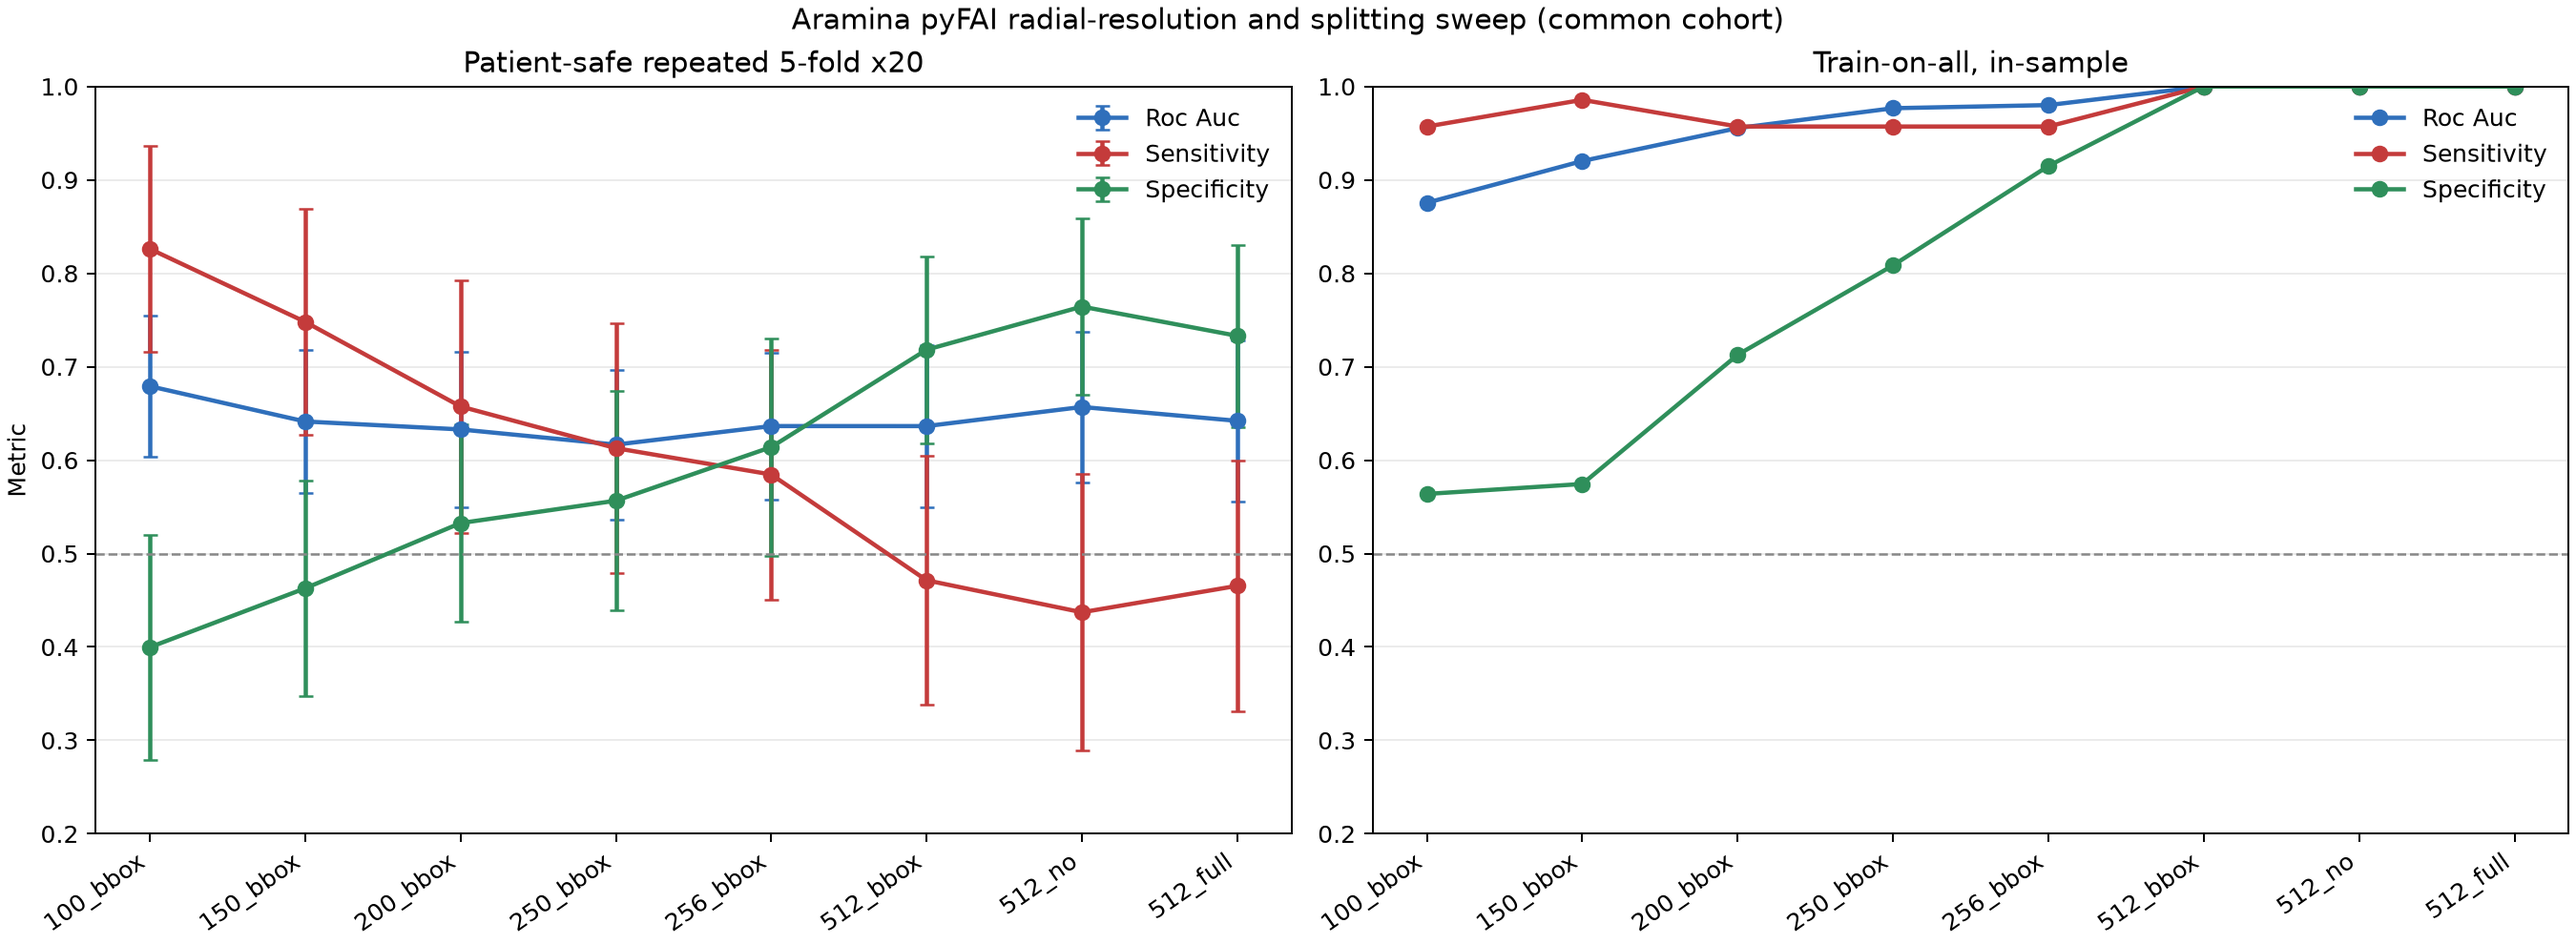
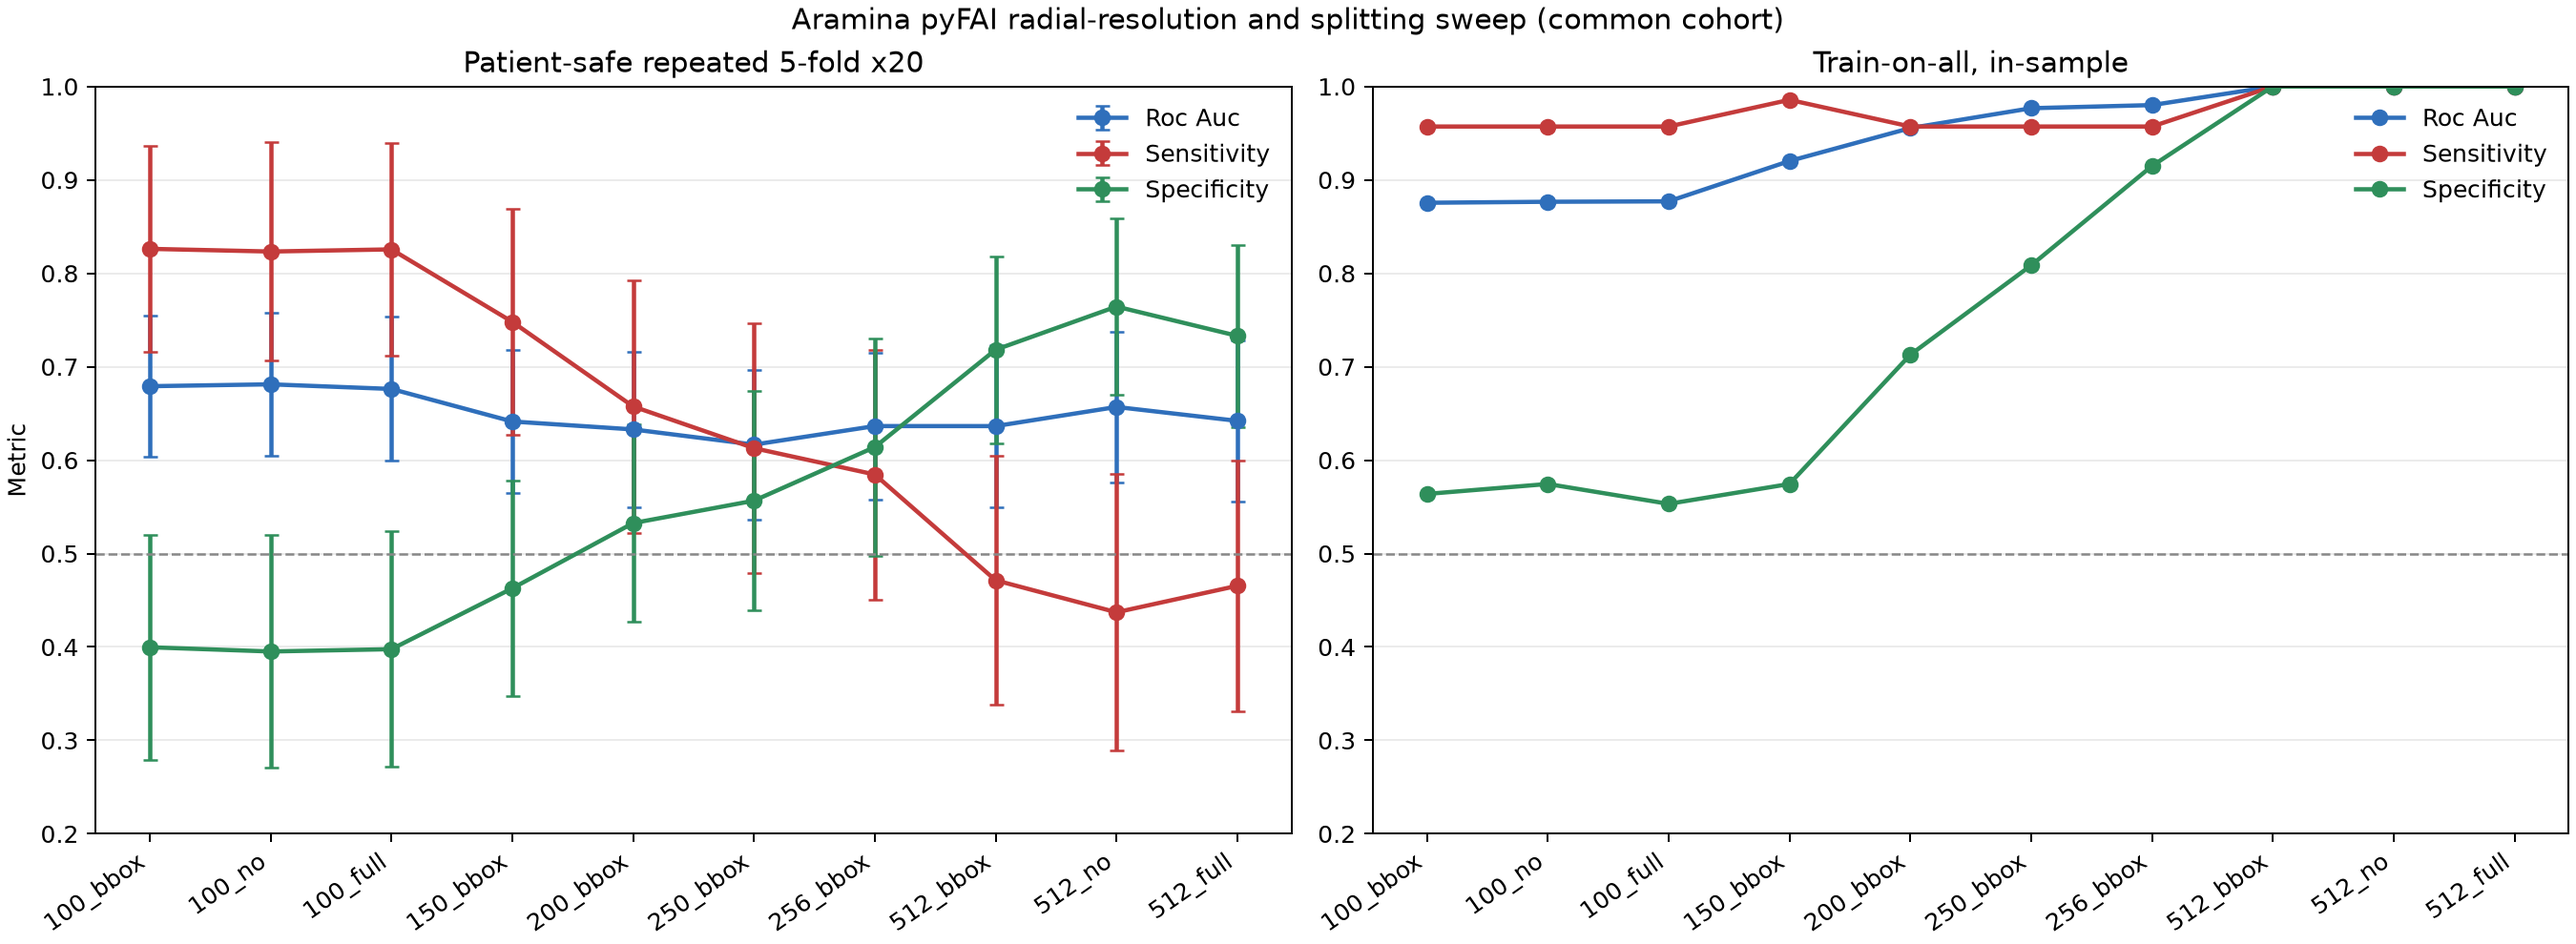
experiment: compare pyFAI splitting at npt100

diff --git a/experiments/npt_method_sweep/run_npt_method_sweep.py b/experiments/npt_method_sweep/run_npt_method_sweep.py
@@ -49,6 +49,8 @@ DEFAULT_H5 = (
 IDENTITY_COLUMNS = ["patientId", "specimenId", "side", "position", "started_at"]
 VARIANTS = (
     ("npt100_bbox", 100, ("bbox", "csr", "cython")),
+    ("npt100_no", 100, ("no", "csr", "cython")),
+    ("npt100_full", 100, ("full", "csr", "cython")),
     ("npt150_bbox", 150, ("bbox", "csr", "cython")),
     ("npt200_bbox", 200, ("bbox", "csr", "cython")),
     ("npt250_bbox", 250, ("bbox", "csr", "cython")),

diff --git a/experiments/npt_method_sweep/RESULTS.md b/experiments/npt_method_sweep/RESULTS.md
@@ -9,6 +9,13 @@ increased in-sample separation and reached perfect train-on-all classification
 at `npt=512`, while held-out ROC AUC remained approximately `0.64–0.66`. This is
 overfitting, not improved generalization.
 
+At the fixed product resolution (`npt=100`), changing only the pyFAI pixel
+splitting rule did not change held-out performance materially. `no`, `bbox`,
+and `full` gave ROC AUC `0.681`, `0.679`, and `0.676`, respectively, on the
+same held-out cases. `bbox` remains the frozen product method: it retains the
+existing validated preprocessing definition without a measurable performance
+disadvantage.
+
 ## Controlled common cohort
 
 All variants used the same `803` measurements, `164` patients, `164`
@@ -17,6 +24,8 @@ target-breast cases, split IDs, and random seed.
 | Variant | q step, nm^-1 | ROC AUC | Sensitivity | Specificity | Train-all ROC | Train-all specificity |
 |---|---:|---:|---:|---:|---:|---:|
 | `100/bbox` | 0.210 | **0.679 ± 0.076** | **0.826 ± 0.111** | 0.400 ± 0.120 | 0.876 | 0.564 |
+| `100/no` | 0.210 | **0.681 ± 0.076** | 0.823 ± 0.117 | 0.395 ± 0.125 | 0.877 | 0.574 |
+| `100/full` | 0.210 | 0.676 ± 0.077 | 0.826 ± 0.114 | 0.398 ± 0.126 | 0.877 | 0.553 |
 | `150/bbox` | 0.140 | 0.641 ± 0.077 | 0.748 ± 0.121 | 0.463 ± 0.115 | 0.920 | 0.574 |
 | `200/bbox` | 0.105 | 0.633 ± 0.083 | 0.657 ± 0.136 | 0.533 ± 0.106 | 0.955 | 0.713 |
 | `250/bbox` | 0.084 | 0.617 ± 0.080 | 0.613 ± 0.133 | 0.557 ± 0.117 | 0.977 | 0.809 |
@@ -36,6 +45,8 @@ This analysis includes npt-dependent QC retention.
 | Variant | Measurements | Target cases | ROC AUC | Sensitivity | Specificity | Train-all ROC | Train-all specificity |
 |---|---:|---:|---:|---:|---:|---:|---:|
 | `100/bbox` | 893 | 175 | **0.645 ± 0.069** | **0.818 ± 0.099** | 0.376 ± 0.133 | 0.865 | 0.495 |
+| `100/no` | 891 | 175 | **0.646 ± 0.070** | 0.816 ± 0.106 | 0.380 ± 0.136 | 0.868 | 0.505 |
+| `100/full` | 893 | 175 | 0.640 ± 0.070 | 0.815 ± 0.105 | 0.367 ± 0.134 | 0.871 | 0.374 |
 | `150/bbox` | 886 | 173 | 0.631 ± 0.081 | 0.695 ± 0.121 | 0.485 ± 0.124 | 0.926 | 0.670 |
 | `200/bbox` | 883 | 172 | 0.623 ± 0.084 | 0.683 ± 0.128 | 0.513 ± 0.118 | 0.949 | 0.701 |
 | `250/bbox` | 877 | 171 | 0.593 ± 0.094 | 0.593 ± 0.146 | 0.524 ± 0.138 | 0.973 | 0.804 |
@@ -54,6 +65,9 @@ metrics.
 - Higher `npt` lowers calculated SNR because fewer detector counts contribute
   to each radial bin. Therefore changing `npt` also changes QC retention.
 - On the fixed common cohort, higher `npt` still does not improve ROC AUC.
+- At `npt=100`, `no`, `bbox`, and `full` splitting are indistinguishable at
+  this cohort size; no performance rationale supports changing the product
+  `bbox` method.
 - `bbox` and `full` give similar held-out ROC at `npt=512`.
 - `no` splitting increases specificity but loses most of the required
   sensitivity.

diff --git a/experiments/npt_method_sweep/README.md b/experiments/npt_method_sweep/README.md
@@ -1,11 +1,13 @@
 # pyFAI radial-resolution and pixel-splitting sweep
 
-Research-only comparison of the frozen Aramina model architecture under eight
+Research-only comparison of the frozen Aramina model architecture under ten
 azimuthal-integration settings:
 
 | Variant | `npt` | pyFAI method |
 |---|---:|---|
 | `npt100_bbox` | 100 | `bbox / csr / cython` |
+| `npt100_no` | 100 | `no / csr / cython` |
+| `npt100_full` | 100 | `full / csr / cython` |
 | `npt150_bbox` | 150 | `bbox / csr / cython` |
 | `npt200_bbox` | 200 | `bbox / csr / cython` |
 | `npt250_bbox` | 250 | `bbox / csr / cython` |
@@ -31,4 +33,3 @@ conda run -n eosproduct python \
 
 Generated large artifacts remain under `outputs/npt_method_sweep/`. Compact
 tables, plots, and the final interpretation are written beside this README.
-
